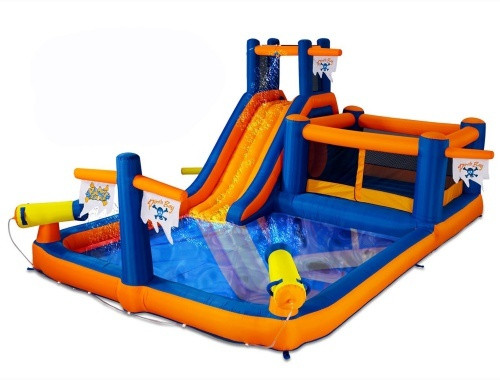
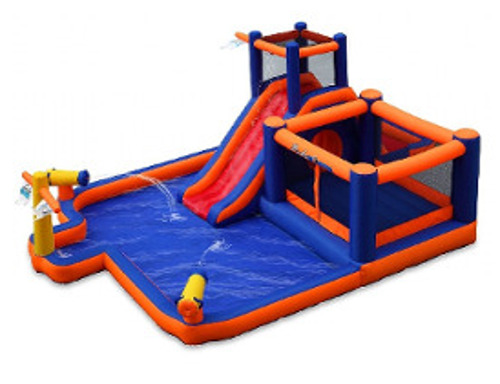
updated images added footer.

diff --git a/index.html b/index.html
@@ -91,7 +91,7 @@
             </header>
             <!--  END Header & Menu  -->
             <!--  Page Content, class footer-fixed if footer is fixed  -->
-            <div id="page-content" class="header-static">
+            <div id="page-content" class="header-static footer-fixed">
                 <!--  Slider  -->
                 <div id="flexslider" class="fullpage-wrap small">
                     <ul class="slides">
@@ -292,7 +292,51 @@
                 </div>
             </div>
             <!--  END Page Content, class footer-fixed if footer is fixed  -->
-            
+             <!--  Footer. Class fixed for fixed footer  -->
+            <footer class="fixed full-width">
+                <div class="container">
+                    <div class="row no-margin">
+                        <div class="col-sm-4 col-md-2 padding-leftright-null">
+                            <h6 class="heading white margin-bottom-extrasmall">Dolomia</h6>
+                            <ul class="sitemap">
+                                <li><a href="index.html">Home</a></li>
+                                <li><a href="policies.html">Policies</a></li>                                
+                                <li><a href="contact-us.html">Contact Us</a></li>
+                            </ul>
+                        </div>
+                        <div class="col-sm-4 col-md-6 padding-leftright-null">
+                            <h6 class="heading white margin-bottom-extrasmall">Welcome</h6>
+                            <p class="grey-light">We are passoniate about fun, easy, and inexpensive rentals. We find the lowest prices so you don't have to. We have an easy reservation process so you don't have to spend hours on hold. </p>
+							<p class="grey-light">We have the easiest and best priced rentals around. Come see what makes us so great!</p>
+                        </div>
+                        <div class="col-sm-4 col-md-4 padding-leftright-null">
+                            <h6 class="heading white margin-bottom-extrasmall">Contact Us</h6>
+                            <ul class="info">
+                                <li>Phone: 801-669-2723 </li>
+                                <li>Mail <a href="mailto:info@radrental.net?Subject=Web%20Rental">info@radrental.net</a></li>
+                                <li>Monday to Saturday <span class="white">9:00 am to 8:00 pm</span></li>
+                                <li><a href="#">Springville, Utah<br>
+                                    84663</a></li>
+                            </ul>
+                        </div>
+                        
+                    </div>
+                    <div class="copy">
+                        <div class="row no-margin">
+                            <div class="col-md-8 padding-leftright-null">
+                                &copy; 2017 Radford's Rentals
+                            </div>
+                            <div class="col-md-4 padding-leftright-null">
+                                <ul class="social">
+                                    <li><a href="https://www.facebook.com/Rad-Rentals-365135517219259/"><i class="fa fa-facebook" aria-hidden="true"></i></a></li>                                                                  
+                                    <li><a href="https://aboutme.google.com/b/116194057829057274575/"><i class="fa fa-google-plus" aria-hidden="true"></i></a></li>                                 
+                                </ul>
+                            </div>
+                        </div>
+                    </div>
+                </div>
+            </footer>
+            <!--  END Footer. Class fixed for fixed footer  -->
 
             <!--  END Footer. Class fixed for fixed footer  -->
         </div>

diff --git a/pirate-bay.html b/pirate-bay.html
@@ -96,7 +96,7 @@
                 <!--  Slider  -->
                 <div id="flexslider" class="fullpage-wrap small">
                     <ul class="slides">
-                        <li style="background-image:url(assets/img/pirate-bouncer2.jpg)">
+                        <li style="background-image:url(assets/img/pirate-bouncer3.jpg)">
                             <div class="container text text-center">
                                 <h1 class="white margin-bottom-small">Pirate Bay Inflatable Combo Water Park</h1>
                                 <p class="heading white">One of our most popular Water Parks!</p>						
@@ -176,7 +176,7 @@
                                 <div class="row padding-onlytop-sm">
                                     <div class="col-md-6">
                                         <div class="image simple-shadow" style="background-image:url(assets/img/pirate-bouncer3.jpg)">
-                                            <a class="lightbox-image" href="assets/img/pirate-bouncer.jpg"></a>
+                                            <a class="lightbox-image" href="assets/img/pirate-bouncer3.jpg"></a>
                                         </div>
                                     </div>
                                     
